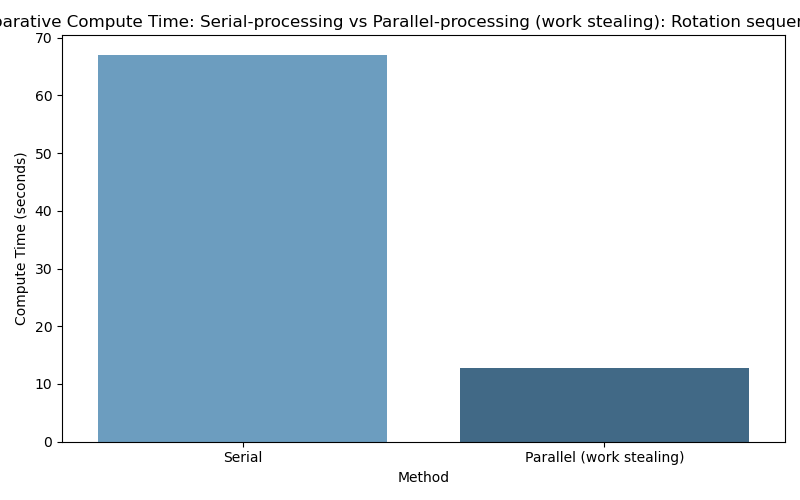
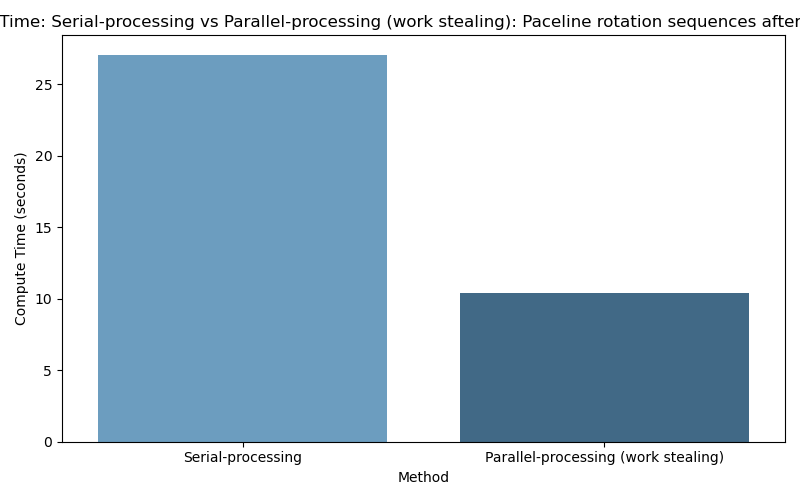
fine tuning parameters

diff --git a/Zsun01/src/formulae/jgh_formulae08.py b/Zsun01/src/formulae/jgh_formulae08.py
@@ -872,17 +872,35 @@ def generate_ingenious_paceline_solutions(paceline_ingredients: PacelineIngredie
 
 def main01():
     """
-    Benchmarks and compares the compute time of serial-processing versus parallel processing for paceline-sequences according to the size of universe of paceline-sequences. The size is governed by the cross-product of the number of riders and the number of standard pull periods (currently 0, 30, 60, 120, 180, 240, 300). Processing time is exponentialy explosive as the number of sequences grows.
+        Benchmarks and compares the compute time of serial-processing versus parallel
+        processing for paceline-sequences according to the size of universe of
+        paceline-sequences. The size is governed by the cross-product of the number
+        of riders and the number of standard pull periods (currently 0, 30, 60, 120,
+        180, 240, 300). Processing time is exponentially explosive as the number of
+        sequences grows.
 
-    The idea with this main01() is to manually increase the number of riders (i.e. the number of sequences) and to determine when parallel-processing overtakes serial-processing in terms of compute speed. I use main01() to emprically determine the sweet spot for the constant SERIAL_TO_PARALLEL_PROCESSING_THRESHOLD. This constant is subsequently relied upon by Brute in all scenarios. It is therefore important to get the constant right. The paramater is tuned for my powerful laptop. it will be different for a puny server with fewer cores. At the time of writing (Aug 2025), the numbers look like this:
-        
-        Riders  Sequences   serial-processing (sec) parallel-processing (min/sec)
-            1           7                   <1s                        5s 
-            2          49                   <1s                        11s
-            3         343                   5s                         11s
-            4        2,401                  67s                        13s
-            5       16,807                  10m                        78s
-            6      117,649                  4h06m                      13m
+        The idea with this main01() is to manually increase the number of riders
+        (i.e. the number of sequences) and to determine when parallel-processing
+        overtakes serial-processing in terms of compute speed. I use main01() to
+        empirically determine the sweet spot for the constant
+        SERIAL_TO_PARALLEL_PROCESSING_THRESHOLD. This constant is subsequently
+        relied upon by Brute in all scenarios. It is therefore important to get the
+        constant right. The parameter is tuned for my powerful laptop. It will be
+        different for a puny server with fewer cores. At the time of writing (Aug
+        2025), the numbers look like this:-
+
+        Riders  Sequences           serial-processing               parallel-processing
+            1           7                  <1s                          5s 
+            2          49                  <1s                          9s
+            3         343                   5s                          9s
+            equality  512                   9s                          9s
+                      729                  13s                          9s
+                    1,000                  22s                         11s  
+            4       2,401                  67s                         13s
+            5      16,807                  10m                         78s - way to tedious to run
+            6     117,649                4h06m                         13m - waay to tedious to run
+            7     823,543               don't even bother
+            8   5,764,801               don't even bother
 
 
     This function:
@@ -892,7 +910,8 @@ def main01():
       - Logs and writes a summary report comparing the compute times and time saved by parallelization.
       - Visualizes the results in a bar chart and saves the chart as a PNG file.
 
-    The function is intended for performance analysis and does not return a value. All results are logged and saved as a .png.
+    The function is intended for performance analysis and does not return a value. All results are 
+    logged and saved as a .png.
 
     Side Effects:
       - Writes a summary report to a text file.
@@ -923,14 +942,14 @@ def main01():
     s1 = time.perf_counter()
     _ = generate_paceline_solutions_using_serial_processing_algorithm(paceline_ingredients, all_conceivable_paceline_rotation_sequences)
     s2 = time.perf_counter()
-    logger.debug(f"\nBase-case: serial run compute time (measured): {round(s2 - s1, 2)} seconds")
+    logger.debug(f"\nBase-case: serial run compute time: {round(s2 - s1, 2)} seconds")
     logger.debug(f"\nCommencing parallel processing. Please wait....")
     # Parallel run (ignore squigglies here, they are inconsequential warnings)
     p1 = time.perf_counter()
     _ = generate_paceline_solutions_using_parallel_workstealing_algorithm(paceline_ingredients, all_conceivable_paceline_rotation_sequences)
     p2 = time.perf_counter()
 
-    logger.debug(f"\nTest-case: parallel run compute time (measured): {round(p2 - p1,2)} seconds")
+    logger.debug(f"\nTest-case: parallel run compute time: {round(p2 - p1,2)} seconds")
 
     # --- Summary Report ---
     report_lines : List[str] = []
@@ -938,10 +957,8 @@ def main01():
     report_lines.append(f"Number of riders: {len(riders)}\n\n")
     report_lines.append(f"Number of standard pull periods: {len(STANDARD_PULL_PERIODS_SEC_AS_LIST)}\n\n")
     report_lines.append(f"Consequential number of paceline-rotation sequences: {pretty_number_of_sequences_before_pruning}\n\n")
-    report_lines.append("Serial run:\n")
-    report_lines.append(f"  Compute time (measured): {round(s2 - s1, 2)} seconds\n")
-    report_lines.append("Parallel run (work-stealing):\n")
-    report_lines.append(f"  Compute time (measured): {round(p2 - p1,2)} seconds\n")
+    report_lines.append(f"Serial run: Compute time: {round(s2 - s1, 2)} seconds\n")
+    report_lines.append(f"Parallel run (work-stealing): Compute time: {round(p2 - p1,2)} seconds\n")
     report_lines.append(f"Time saved by parallelisation: {round((s2 - s1) - (p2 - p1), 2)} seconds")
     report_lines.append("\n")
 
@@ -967,82 +984,94 @@ def main01():
     plt.show()
     logger.debug(f"Bar chart saved to {save_filename_without_ext}.png")
 
+
 def main02():
     """
-    Calculates the resultant compute time if we incrementally prune the massive size of the universe of the paceline_rotation_solutions down to a specified goal and only thereafter commence the processing of solutions. Pruning achieves massive savings. The pruning proceeds in incremental steps. It will run until it exhausts itself, or it will stop automatically when it meets it goal and hops under the empirically determined goal specified by the constant ROTATION_SEQUENCE_UNIVERSE_SIZE_PRUNING_GOAL. Following pruning, the algorithm does whatever is faster - either serial-processing or parallel-processing. This is empically determined and specified by the constant - SERIAL_TO_PARALLEL_PROCESSING_THRESHOLD. Below the threshold, serial processing is deemed to faster (which it is).
+    Identical to main01() except that it uses the pruned list of paceline-rotation
+    sequences rather than the full list of conceivable sequences, so as to
+    demonstrate the benefits of pruning on compute time and how it renders the
+    brute-force approach feasible for larger numbers of riders. Without pruning,
+    the brute-force approach becomes unfeasible very quickly as the number of
+    riders increases. Even with parallel processing, it becomes impractical beyond
+    4 riders. With pruning, it is excellent up to 6, which is the max size of a
+    paceline in ZRL events, remains decent up to 8 riders (the max in WTRL TTT
+    events), and can even be tolerable for 9 riders. The pruning heuristic 
+    takes a single parameter : ROTATION_SEQUENCE_UNIVERSE_SIZE_PRUNING_GOAL. 
+    For the test results shown here, this is set somewhat arbitrarily at 1,024. 
+    Notice how pruning radically reduces the solution space for 4 riders and beyond. 
+    At the time of writing (Aug 2025), the numbers look like this:
+        
+        Riders  Sequences After pruning serial-processing parallel-processing
+            1           7             7       <1s               5s 
+            2          49            49       <1s               9s
+            3         343           343        5s               9s
+            4       2,401           980        7s               10s
+            5      16,807           966       42s               11s
+            6     117,649           924       56s               14s
+            7     823,543         1,716      128s               22s
+            8   5,764,801         3,003      282s               39s     
+            9  40,353,607         5,055      575s               72s                       
 
-    The idea with this main02() is to manually increase the number of riders and learn if Brute can do its work in an acceptable amount of time as the number of rider increases. At the time of writing (Aug 2025), the numbers look like this:
 
     This function:
       - Loads rider data and team composition from JSON and utility functions.
-      - Sets up paceline computation parameters for the team.
-      - Generates and evaluates paceline solutions using the most performant algorithm (serial or parallel, with solution-space pruning).
-      - Extracts and logs key solution metrics for several paceline strategies (simple, balanced, tempo, drop).
-      - Writes a summary report of the computation time and results to a text file.
+      - Generates all possible paceline rotation sequences for the team and standard pull periods.
+      - Runs the paceline solution algorithm using both serial and parallel approaches, timing each.
+      - Logs and writes a summary report comparing the compute times and time saved by parallelization.
+      - Visualizes the results in a bar chart and saves the chart as a PNG file.
 
-    The function is intended for performance and solution quality analysis. All results are logged and written to disk.
+    The function is intended for performance analysis and does not return a value. All results are 
+    logged and saved as a .png.
 
     Side Effects:
       - Writes a summary report to a text file.
+      - Saves a bar chart visualization as a PNG file.
       - Logs progress and results using the configured logger.
 
     Raises:
       - Exceptions are logged if encountered during computation.
 
     Dependencies:
-      - Expects global variables RIDERS_FILE_NAME and DATA_DIRPATH to be set.
-      - Requires project-specific modules and data files.
-    """    
-    from handy_utilities import read_json_dict_of_ZsunDTO
-    from repository_of_teams import get_team_riderIDs
-    from constants import STANDARD_PULL_PERIODS_SEC_AS_LIST
+      - Expects global variables RIDERS_FILE_NAME and DATA_DIRPATH, ROTATION_SEQUENCE_UNIVERSE_SIZE_PRUNING_GOAL to be set.
+      - Requires pandas, seaborn, matplotlib, and other project-specific modules.
+    """
 
-    dict_of_ZsunItems = read_json_dict_of_ZsunDTO(RIDERS_FILE_NAME, DATA_DIRPATH)
-    riderIDs = get_team_riderIDs("test")
-    riders = [dict_of_ZsunItems[rid] for rid in riderIDs]
-
-    params = PacelineIngredientsItem(
-        riders_list                  = riders,
-        sequence_of_pull_periods_sec = STANDARD_PULL_PERIODS_SEC_AS_LIST,
-        pull_speeds_kph              = [10.0] * len(riders), # this is definitely not a dictated speed in this context, it's the seed speed for the binary search algorithm. arbitrary low value.
-        max_exertion_intensity_factor= 0.95
+    paceline_ingredients = PacelineIngredientsItem(
+        riders_list                   = riders,
+        sequence_of_pull_periods_sec  = STANDARD_PULL_PERIODS_SEC_AS_LIST,
+        pull_speeds_kph               = [30.0] * len(riders),
+        max_exertion_intensity_factor = 0.95
     )
 
-    save_filename_without_ext = f"do_pruning_before_processing_with_{len(riders)}_riders"
+    save_filename_without_ext = f"compare_serial_processing_versus_parallel_processing_duration_after_pruning{len(riders)}"
 
-    logger.debug(f"Testing: running sensible empirically-measured thresholds for no-pruning, pruning + serial_processing, pruning + parallel processing with {len(riders)} riders")
+    logger.debug(f"Starting: head-to-head benchmarking of serial-processing versus parallel-processing with {len(riders)} riders, {len(STANDARD_PULL_PERIODS_SEC_AS_LIST)} pull periods, and consequently {pretty_number_of_sequences_before_pruning} paceline_rotation sequences before pruning and {pretty_number_of_sequences_after_pruning} sequences after pruning.")
+    logger.debug(f"\nCommencing serial processing. This could take a very long time depending on the number of sequences. Please wait....")
 
-    computation_report = generate_ingenious_paceline_solutions(params)
+    # Serial run as the base case (ignore squigglies here, they are inconsequential warnings)
+    s1 = time.perf_counter()
+    _ = generate_paceline_solutions_using_serial_processing_algorithm(paceline_ingredients, reduced_paceline_rotation_sequences_after_pruning)
+    s2 = time.perf_counter()
+    logger.debug(f"\nBase-case: serial run compute time: {round(s2 - s1, 2)} seconds")
+    logger.debug(f"\nCommencing parallel processing. Please wait....")
+    # Parallel run (ignore squigglies here, they are inconsequential warnings)
+    p1 = time.perf_counter()
+    _ = generate_paceline_solutions_using_parallel_workstealing_algorithm(paceline_ingredients, reduced_paceline_rotation_sequences_after_pruning)
+    p2 = time.perf_counter()
 
-    sixty_sec_solution = computation_report.sixty_sec_solution
-    balanced_solution = computation_report.balanced_intensity_of_effort_solution
-    everybody_pull_hard_solution = computation_report.everybody_pull_hard_solution
-    hang_in_solution = computation_report.hang_in_solution
-
-    simple_speed = sixty_sec_solution.calculated_average_speed_of_paceline_kph if sixty_sec_solution else None
-    # balanced_speed = balanced_solution.calculated_average_speed_of_paceline_kph if balanced_solution else None
-    # tempo_speed = everybody_pull_hard_solution.calculated_average_speed_of_paceline_kph if everybody_pull_hard_solution else None
-    # drop_speed = hang_in_solution.calculated_average_speed_of_paceline_kph if hang_in_solution else None
-
-    logger.debug(f"Test-case: time taken using most performant algorithm (measured): {round(computation_report.computational_time,2)} seconds.")
-
-    simple_guid    = first_n_chars(sixty_sec_solution.guid, 2) if sixty_sec_solution else "--"
-    # balanced_guid  = first_n_chars(balanced_solution.guid, 2) if balanced_solution else "--"
-    # tempo_guid     = first_n_chars(everybody_pull_hard_solution.guid, 2) if everybody_pull_hard_solution else "--"
-    # drop_guid      = first_n_chars(hang_in_solution.guid, 2) if hang_in_solution else "--"
-
-    # logger.debug(f"simple solution speed (kph)           : {simple_guid} : {simple_speed}")
-    # logger.debug(f"balanced-effort solution speed (kph)  : {balanced_guid} : {balanced_speed}")
-    # logger.debug(f"everybody pull hard solution speed (kph)            : {tempo_guid} : {tempo_speed}")
-    # logger.debug(f"race solution speed (kph)             : {drop_guid} : {drop_speed}")
+    logger.debug(f"\nTest-case: parallel run compute time: {round(p2 - p1,2)} seconds")
 
     # --- Summary Report ---
     report_lines : List[str] = []
     report_lines.append("Benchmark Summary Report\n")
-    report_lines.append(f"Number of riders: {len(riders)}\n\n")
-    report_lines.append(f"Number of standard pull periods: {len(STANDARD_PULL_PERIODS_SEC_AS_LIST)}\n\n")
-    report_lines.append(f"Consequential number of paceline-rotation sequences: {pretty_number_of_sequences_before_pruning}\n\n")
-    report_lines.append(f"  Compute-time (measured): {round(computation_report.computational_time,2)} seconds\n")
+    report_lines.append(f"Number of riders: {len(riders)}\n")
+    report_lines.append(f"Number of standard pull periods: {len(STANDARD_PULL_PERIODS_SEC_AS_LIST)}\n")
+    report_lines.append(f"Universe of all paceline-rotation sequences: {pretty_number_of_sequences_before_pruning}\n")
+    report_lines.append(f"Pruning goal: {ROTATION_SEQUENCE_UNIVERSE_SIZE_PRUNING_GOAL}\n")
+    report_lines.append(f"Paceline-rotation sequences after pruning: {pretty_number_of_sequences_after_pruning}\n")
+    report_lines.append(f"Serial run: Compute time: {round(s2 - s1, 2)} seconds\n")
+    report_lines.append(f"Parallel run (work-stealing): Compute time: {round(p2 - p1,2)} seconds\n")
+    report_lines.append(f"Time saved by parallelisation: {round((s2 - s1) - (p2 - p1), 2)} seconds")
     report_lines.append("\n")
 
     logger.debug("".join(report_lines))
@@ -1050,6 +1079,23 @@ def main02():
     with open(f"{save_filename_without_ext}.txt", "w", encoding="utf-8") as f:
         f.writelines(report_lines)
     logger.debug(f"Summary report written to {save_filename_without_ext}.txt")
+
+    # --- Visualization: Bar Chart ---
+    df = pd.DataFrame([
+        {"Method": "Serial-processing", "Compute Time (s)": s2 - s1},
+        {"Method": "Parallel-processing (work stealing)", "Compute Time (s)": p2 - p1},
+    ])
+
+    plt.figure(figsize=(8, 5))
+    sns.barplot(data=df, x="Method", y="Compute Time (s)", hue="Method", palette="Blues_d", legend=False)    
+    plt.title(f"Compute Time: Serial-processing vs Parallel-processing (work stealing): Paceline rotation sequences after pruning: {pretty_number_of_sequences_before_pruning}")
+    plt.ylabel("Compute Time (seconds)")
+    plt.xlabel("Method")
+    plt.tight_layout()
+    plt.savefig(f"{save_filename_without_ext}.png")
+    plt.show()
+    logger.debug(f"Bar chart saved to {save_filename_without_ext}.png")
+
 
 if __name__ == "__main__":
     from jgh_formatting import format_number_with_comma_separators
@@ -1074,7 +1120,10 @@ if __name__ == "__main__":
 
     pretty_number_of_sequences_before_pruning = format_number_with_comma_separators(len(all_conceivable_paceline_rotation_sequences))
 
+    reduced_paceline_rotation_sequences_after_pruning = prune_all_sequences_of_pull_periods_in_the_total_solution_space(all_conceivable_paceline_rotation_sequences, riders)
+
+    pretty_number_of_sequences_after_pruning = format_number_with_comma_separators(len(reduced_paceline_rotation_sequences_after_pruning))
 
 
-    main01()    
-    # main02()
+    # main01()    
+    main02()

diff --git a/Zsun01/constants.py b/Zsun01/constants.py
@@ -26,10 +26,9 @@ REQUIRED_PRECISION_OF_SPEED = 0.01 # The desired precision for the speed binary 
 MAX_PERMITTED_ITERATIONS_TO_ACHIEVE_REQUIRED_PRECISION = 30 # Having applied SUFFICIENT_ITERATIONS_TO_GUARANTEE_FINDING_A_SAFE_UPPER_BOUND_KPH Maximum number of iterations for the binary search to find a constraint-busting speed. This is an arbitrary limit chosen to prevent the search from running indefinitely. It is not derived from any specific mathematical or domain-specific principle, but rather serves as a practical upper bound for the search algorithm. The algorithm typically takes 10 iterations when commencing from a safe starting base.
 
 
-SERIAL_TO_PARALLEL_PROCESSING_THRESHOLD = 512 # Below this threshold, serial-processing is faster than parallel-processing.Above this threshold, parallel- processing is faster so that is what we use. The threshold is empirically determined and will be different on different machines. 
+SERIAL_TO_PARALLEL_PROCESSING_THRESHOLD = 512 # Below this threshold, serial-processing is faster than parallel-processing.Above this threshold, parallel- processing is faster so that is what we use. The threshold is empirically determined and will be different on different machines. see main01() in formula08.py for details of the determination.
 
-
-ROTATION_SEQUENCE_UNIVERSE_SIZE_PRUNING_GOAL = 1024 # Somewhat arbirtary. A threshold for the number of alternative solutions we are willing to analyse by uncompromising brute force before we lose patience with the amount of time it is taking to compute. More than this and our strategy to limt the time is to apply a heuristic to prune the solution space. It is preferable to avoid filtering because filtering is a heuristic and all heuristics entail risk (albeit tiny in this case) that they will inadvertently exclude a winning solution. The Cartesian cross product of eight riders and six pull sequences generates a solution space of 1.7 million. By filtering, we prune these very nearly down to the ROTATION_SEQUENCE_UNIVERSE_SIZE_PRUNING_GOAL. Compute time is about twenty seconds.
+ROTATION_SEQUENCE_UNIVERSE_SIZE_PRUNING_GOAL = 1000 # Somewhat arbitary. Emprically detemined. See main01() in formula08.py for details of the determination. The sweet zone is 1,000 - 2,500, which keeps compute time within 7 - 14s zone for up to 6 riders. A threshold for the number of alternative solutions we are willing to analyse by uncompromising brute force before we lose patience with the amount of time taken to compute. More than this and our strategy to limt the time is to apply a heuristic to prune the solution space. It is preferable to minimise the amount of pruning because pruning is a heuristic and all heuristics entail risk (albeit tiny in this case) that they will inadvertently exclude a winning solution. The Cartesian cross product of eight riders and seven pull sequences generates a solution space of 5.76 million which would take literally days to compute. By pruning, we prune these very nearly down to the ROTATION_SEQUENCE_UNIVERSE_SIZE_PRUNING_GOAL. 
 
 
 

diff --git a/Zsun01/data/repository_of_teams.py b/Zsun01/data/repository_of_teams.py
@@ -19,7 +19,7 @@ test_roster = defaultdict(
         "383480": "lynsey_segal",
         "5530045": "mark_brzezinski",
         "1024413": "matt_steeve",
-        "1657744": "melissa_warwick",
+        # "1657744": "melissa_warwick",
         # "1707548": "meridith_leubner",
         # "1193": "richard_mann",
         # "3142395": "rachel_laponsey",
